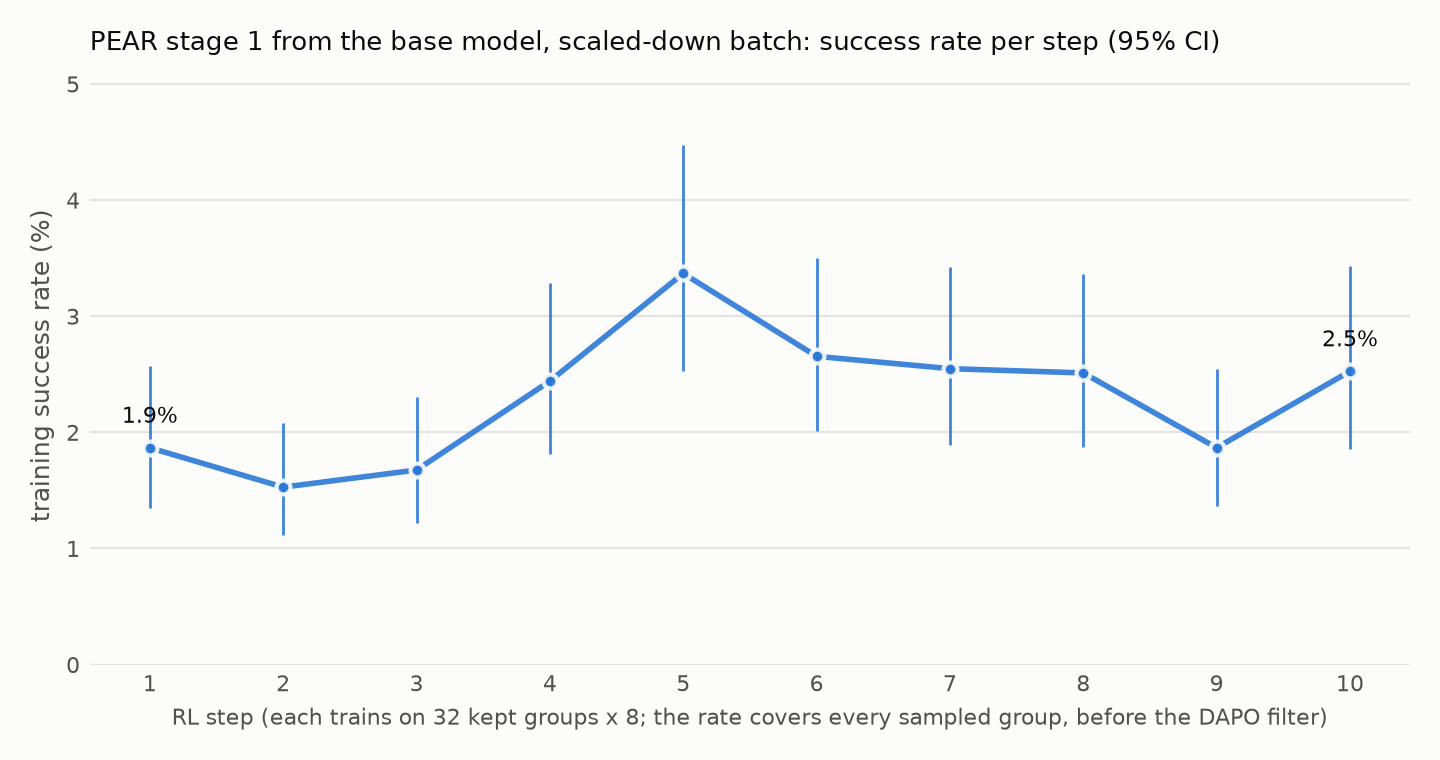
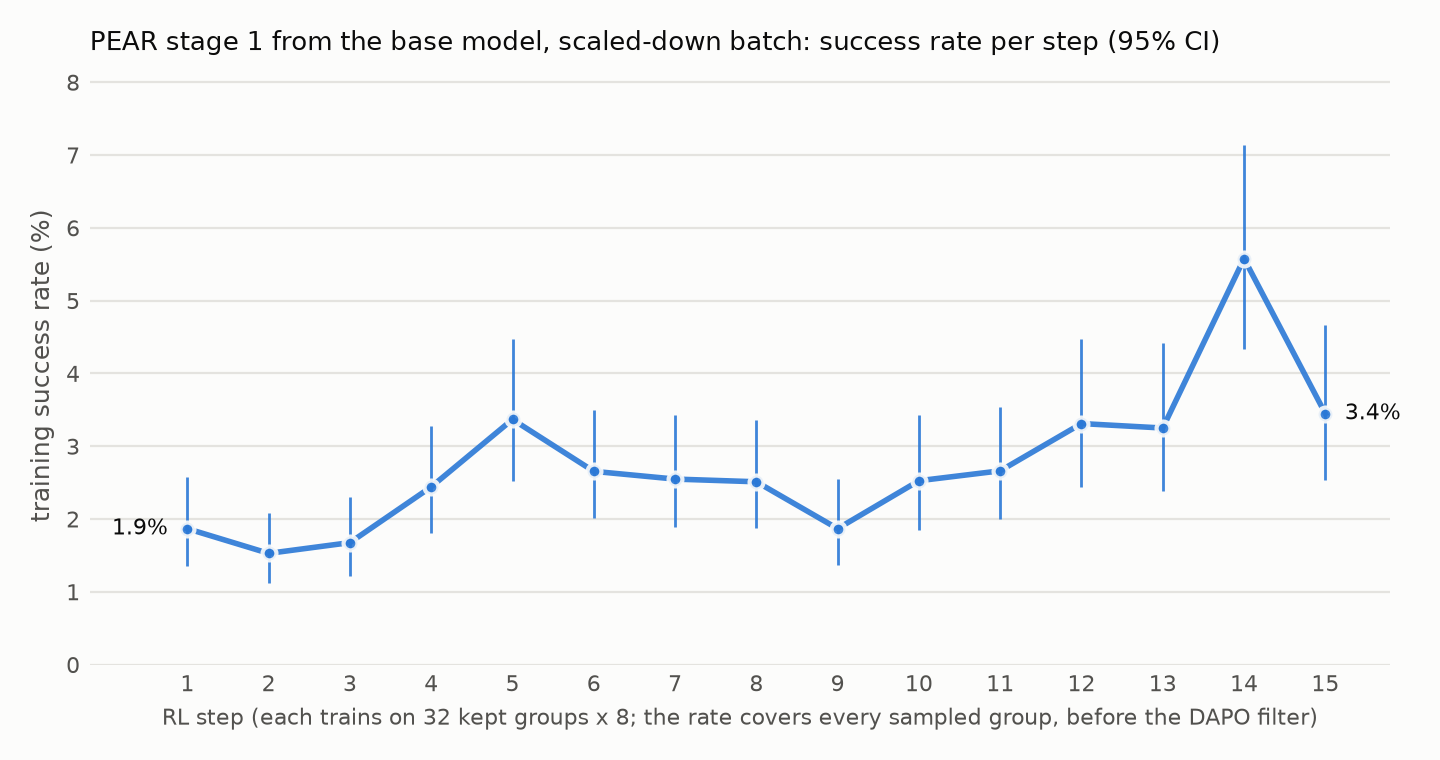
repro: stage-1 RL through step 15 (success rate up from ~1.7% to ~3.9%)

diff --git a/repro/plot_s2_curve.py b/repro/plot_s2_curve.py
@@ -69,9 +69,10 @@ fig, ax = plt.subplots(figsize=(7.2, 3.8), dpi=200, facecolor=SURFACE)
 ax.set_facecolor(SURFACE)
 ax.errorbar(steps, pct, yerr=[lo, hi], color=SERIES, ecolor=SERIES, elinewidth=1, capsize=0, alpha=0.9,
             linewidth=2, marker="o", markersize=5, markeredgecolor=SURFACE, markeredgewidth=1.5, zorder=3)
-for x, y in ((steps[0], pct[0]), (steps[-1], pct[-1])):
-    ax.annotate(f"{y:.1f}%", (x, y), textcoords="offset points", xytext=(0, 9), ha="center", fontsize=8, color=INK)
+for x, y, dx, ha in ((steps[0], pct[0], -7, "right"), (steps[-1], pct[-1], 7, "left")):  # beside the point, clear of its CI bar
+    ax.annotate(f"{y:.1f}%", (x, y), textcoords="offset points", xytext=(dx, 0), ha=ha, va="center", fontsize=8, color=INK)
 ax.set_xticks(steps)
+ax.set_xlim(steps[0] - 1.2, steps[-1] + 0.8)
 ax.set_xlabel("RL step (each trains on 32 kept groups x 8; the rate covers every sampled group, before the DAPO filter)",
               color=INK2, fontsize=8)
 ax.set_ylabel("training success rate (%)", color=INK2, fontsize=9)

diff --git a/repro/README.md b/repro/README.md
@@ -4,10 +4,11 @@ An independent reproduction of PEAR ([arXiv 2611.18562](https://arxiv.org/abs/26
 code at `d604856`. The only code change is a `GPU=gb200` profile (the other commit on this branch). Two questions:
 
 1. Do the released checkpoints score what Table 2 reports? **Yes, within sampling error** (section 1).
-2. Does RL from the base model show the early rise of Figure 3a? **Too early to say.** After 10 of the paper's 148
-   stage-1 steps, at a quarter of the paper's batch, the training success rate is 2.5% (section 2).
+2. Does RL from the base model show the early rise of Figure 3a? **It has started to rise.** After 15 of the paper's
+   148 stage-1 steps, at a quarter of the paper's batch, the training success rate is about 3.9% (steps 12-15), up from
+   about 1.7% (steps 1-3) (section 2).
 
-Status (2026-11-19): stage-1 RL is still running and this branch will be updated.
+Status (2026-11-19, step 15): stage-1 RL is still running and this branch will be updated.
 
 ## 1. Released checkpoints on LIBERO
 
@@ -40,15 +41,27 @@ This confirms the end point of training, not the training itself. The full 2,000
 | 8 | 214 | 1,712 | 2.5% (1.9-3.4) | 15.0% | 36 min |
 | 9 | 261 | 2,088 | 1.9% (1.4-2.5) | 12.3% | 37 min |
 | 10 | 193 | 1,544 | 2.5% (1.9-3.4) | 16.6% | 37 min |
+| 11 | 216 | 1,728 | 2.7% (2.0-3.5) | 14.8% | 32 min |
+| 12 | 151 | 1,208 | 3.3% (2.4-4.5) | 21.2% | 32 min |
+| 13 | 150 | 1,200 | 3.2% (2.4-4.4) | 21.3% | 23 min |
+| 14 | 130 | 1,040 | 5.6% (4.3-7.1) | 25.4% | 28 min |
+| 15 | 145 | 1,160 | 3.4% (2.5-4.7) | 21.4% | 24 min |
 
 - **What is plotted:** the success rate of training rollouts, as in the thin line of the paper's Figure 3a. It is
   `training/filter_groups/avg@n`: every trajectory of every group sampled in that step, before the DAPO group filter.
   The recipe has no in-training evaluation (`test_freq: -1`).
 - **Per-step counts** are reconstructed from the logged metrics; `plot_s2_curve.py` explains how. The intervals treat
   trajectories as independent. The 8 trajectories of a group share a task, so the true intervals are wider.
-- **Reading so far:** steps 4-8 (2.4-3.4%) are above steps 1-3 (1.5-1.9%), but step 9 fell back to 1.9%. There is no
-  steady rise yet. The paper reports about 2% rising to about 70% within 148 steps of 128 groups. Ten of our steps
-  train on as many kept groups as 2.5 of the paper's steps, so no slope comparison is possible yet.
+- **Reading so far:** the rate has roughly doubled, though not monotonically.
+  - Steps 1-3 average about 1.7%, with 10-13% of groups having a success.
+  - Steps 12-15 average about 3.9%, with 21-25% of groups having a success.
+  - Step 14's interval (4.3-7.1%) lies entirely above steps 1-3. At the group level, 25% (33 of 130) is above step
+    2's 10% (32 of 319) too.
+  - Step 9 dipped to 1.9% along the way.
+  - The paper reports about 2% rising to about 70% within 148 steps of 128 groups. Fifteen of our steps train on as
+    many kept groups as 3.75 of the paper's steps, so a slope comparison is still premature.
+  - Fewer groups need to be sampled per step as more of them are kept, so steps are getting faster: 23-28 minutes for
+    steps 13-15, against 42-52 minutes for steps 1-3.
 
 ## 3. Differences from the paper's stage 1
 
@@ -75,8 +88,8 @@ This confirms the end point of training, not the training itself. The full 2,000
 ## 4. Cost
 
 - **Released-checkpoint evaluation:** about 25 GPU-hours on GB300.
-- **RL on GB200, steps 1-9:** 417 GPU-hours.
-  - A step takes about 37 minutes on 48 GPUs, or about 30 GPU-hours.
+- **RL on GB200, steps 1-15:** about 600 GPU-hours.
+  - A recent step takes 23-37 minutes on 48 GPUs, or about 18-30 GPU-hours.
   - Each job of at most 2 hours adds a cold start of about 13 minutes.
   - About 70 GPU-hours were lost to the two cut-short jobs.
 - **Earlier RL attempts on GB300:** about 98 GPU-hours (a smoke test and a 2-step measurement). They are not part of
